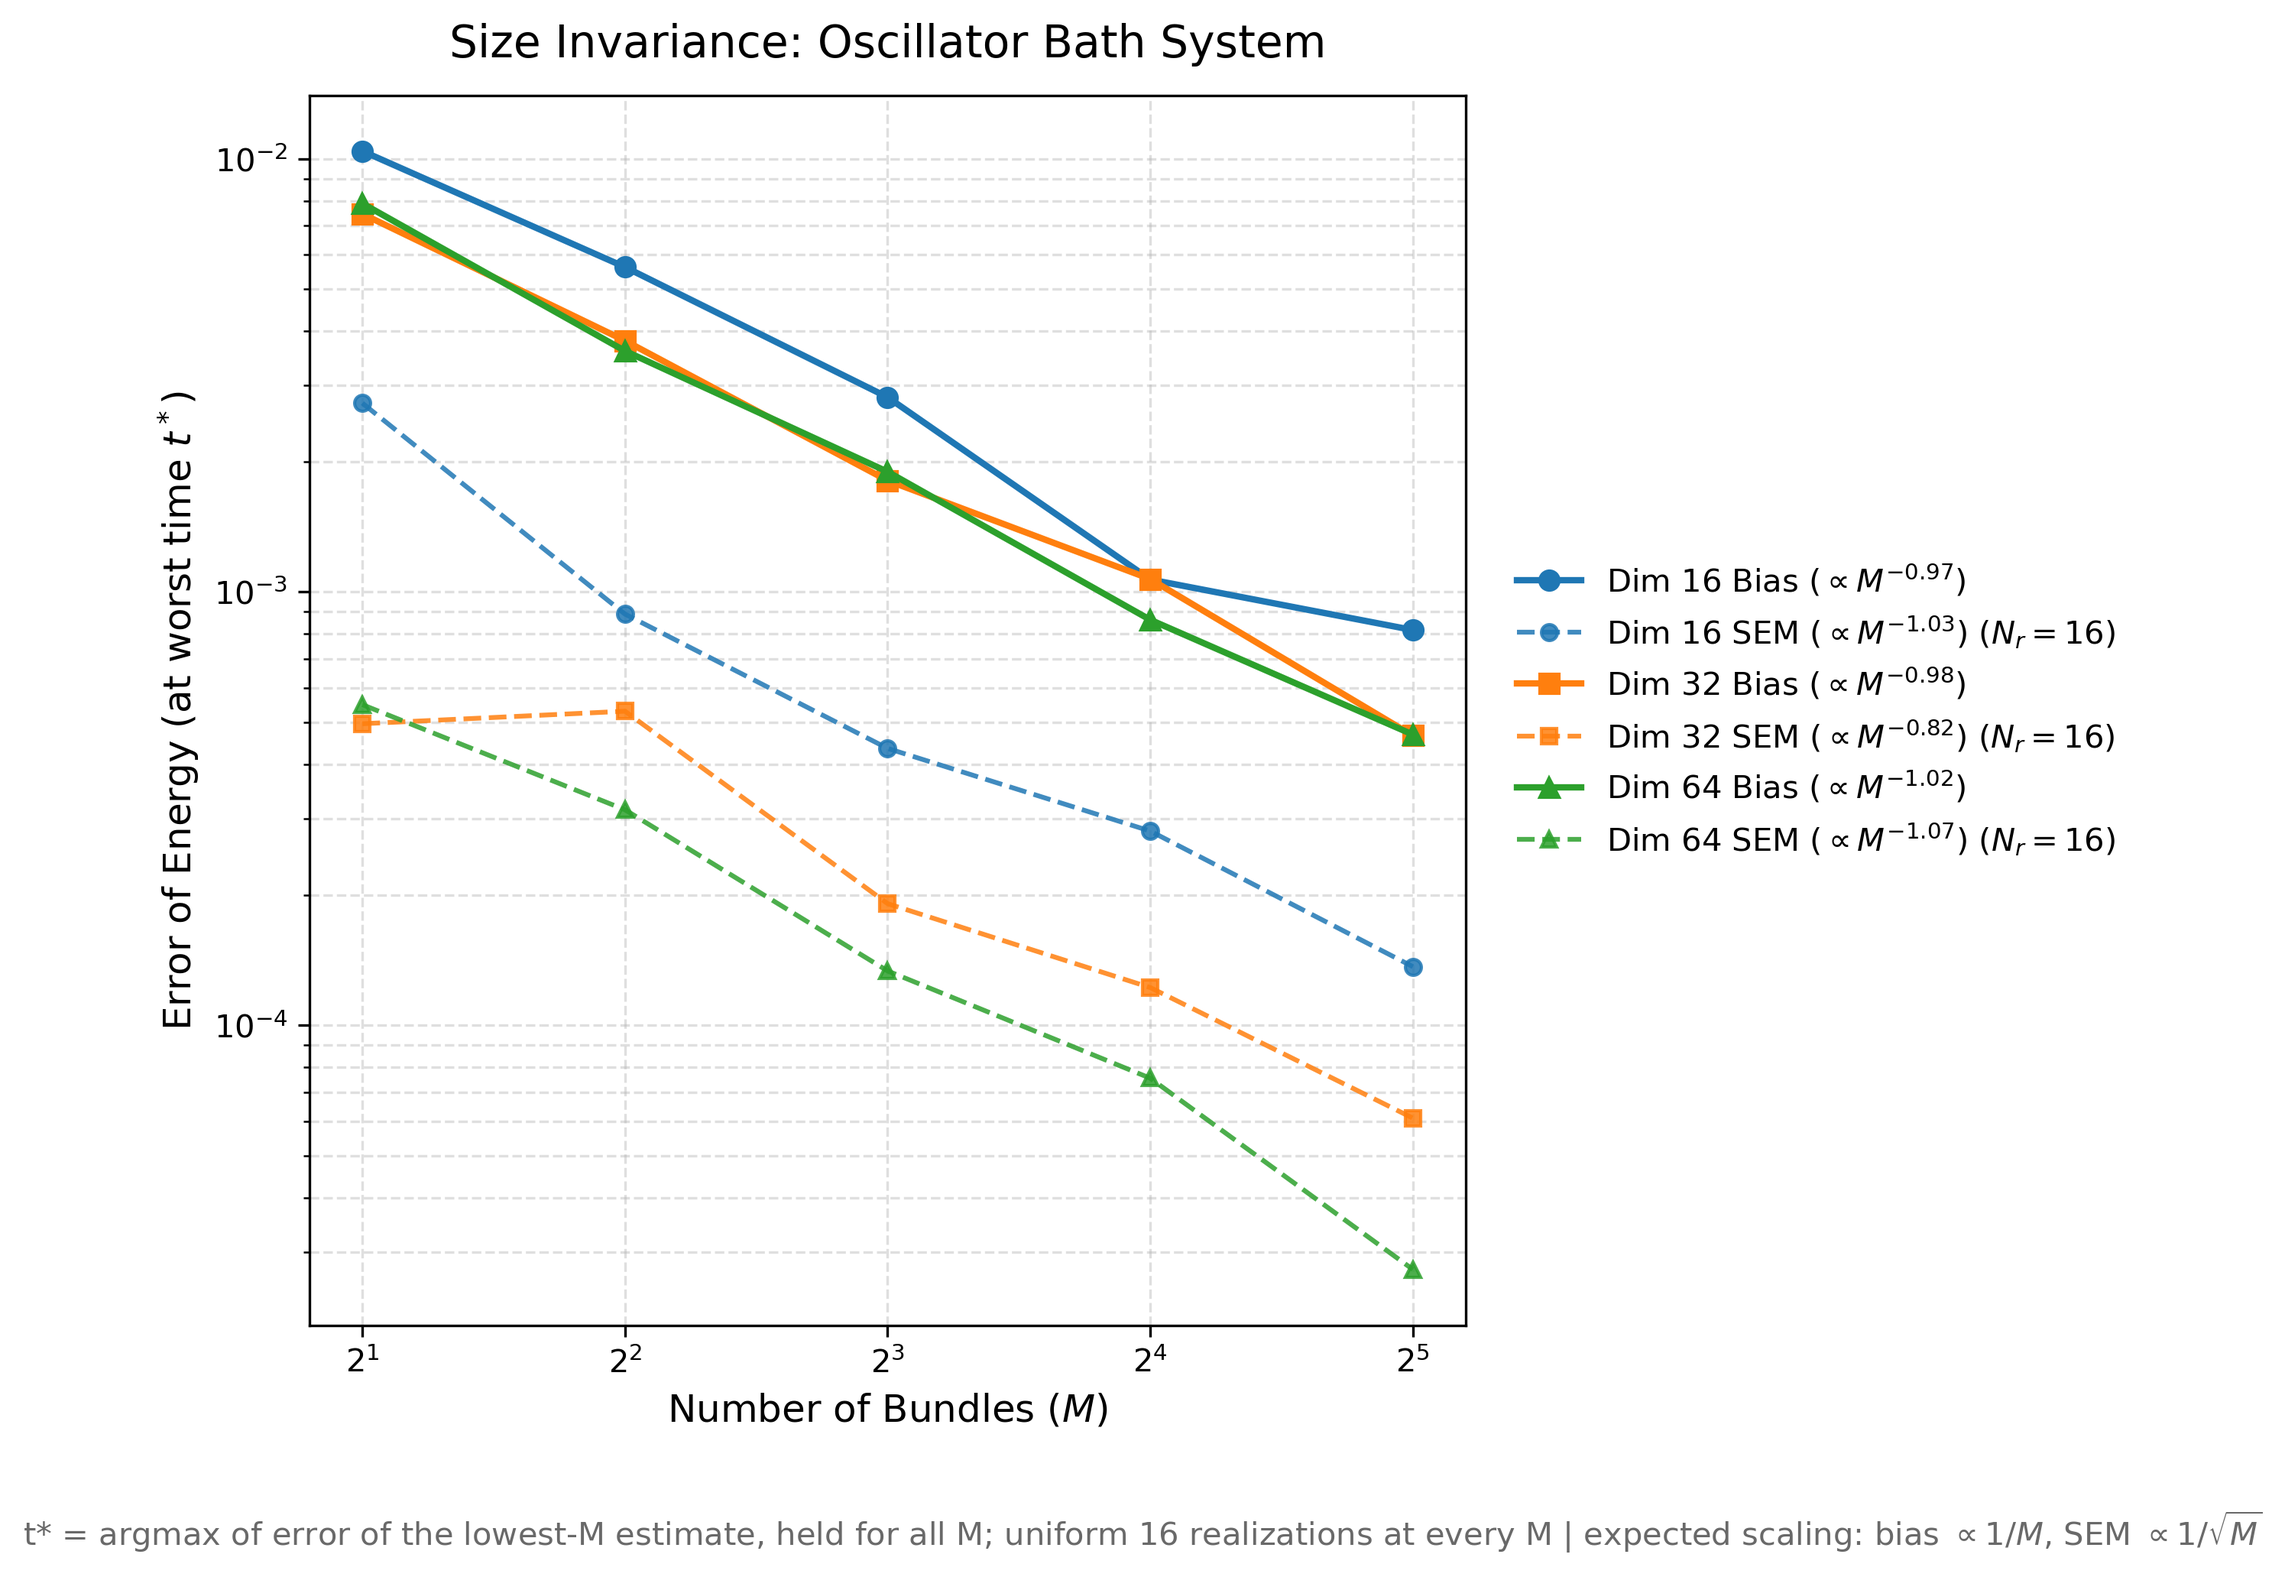
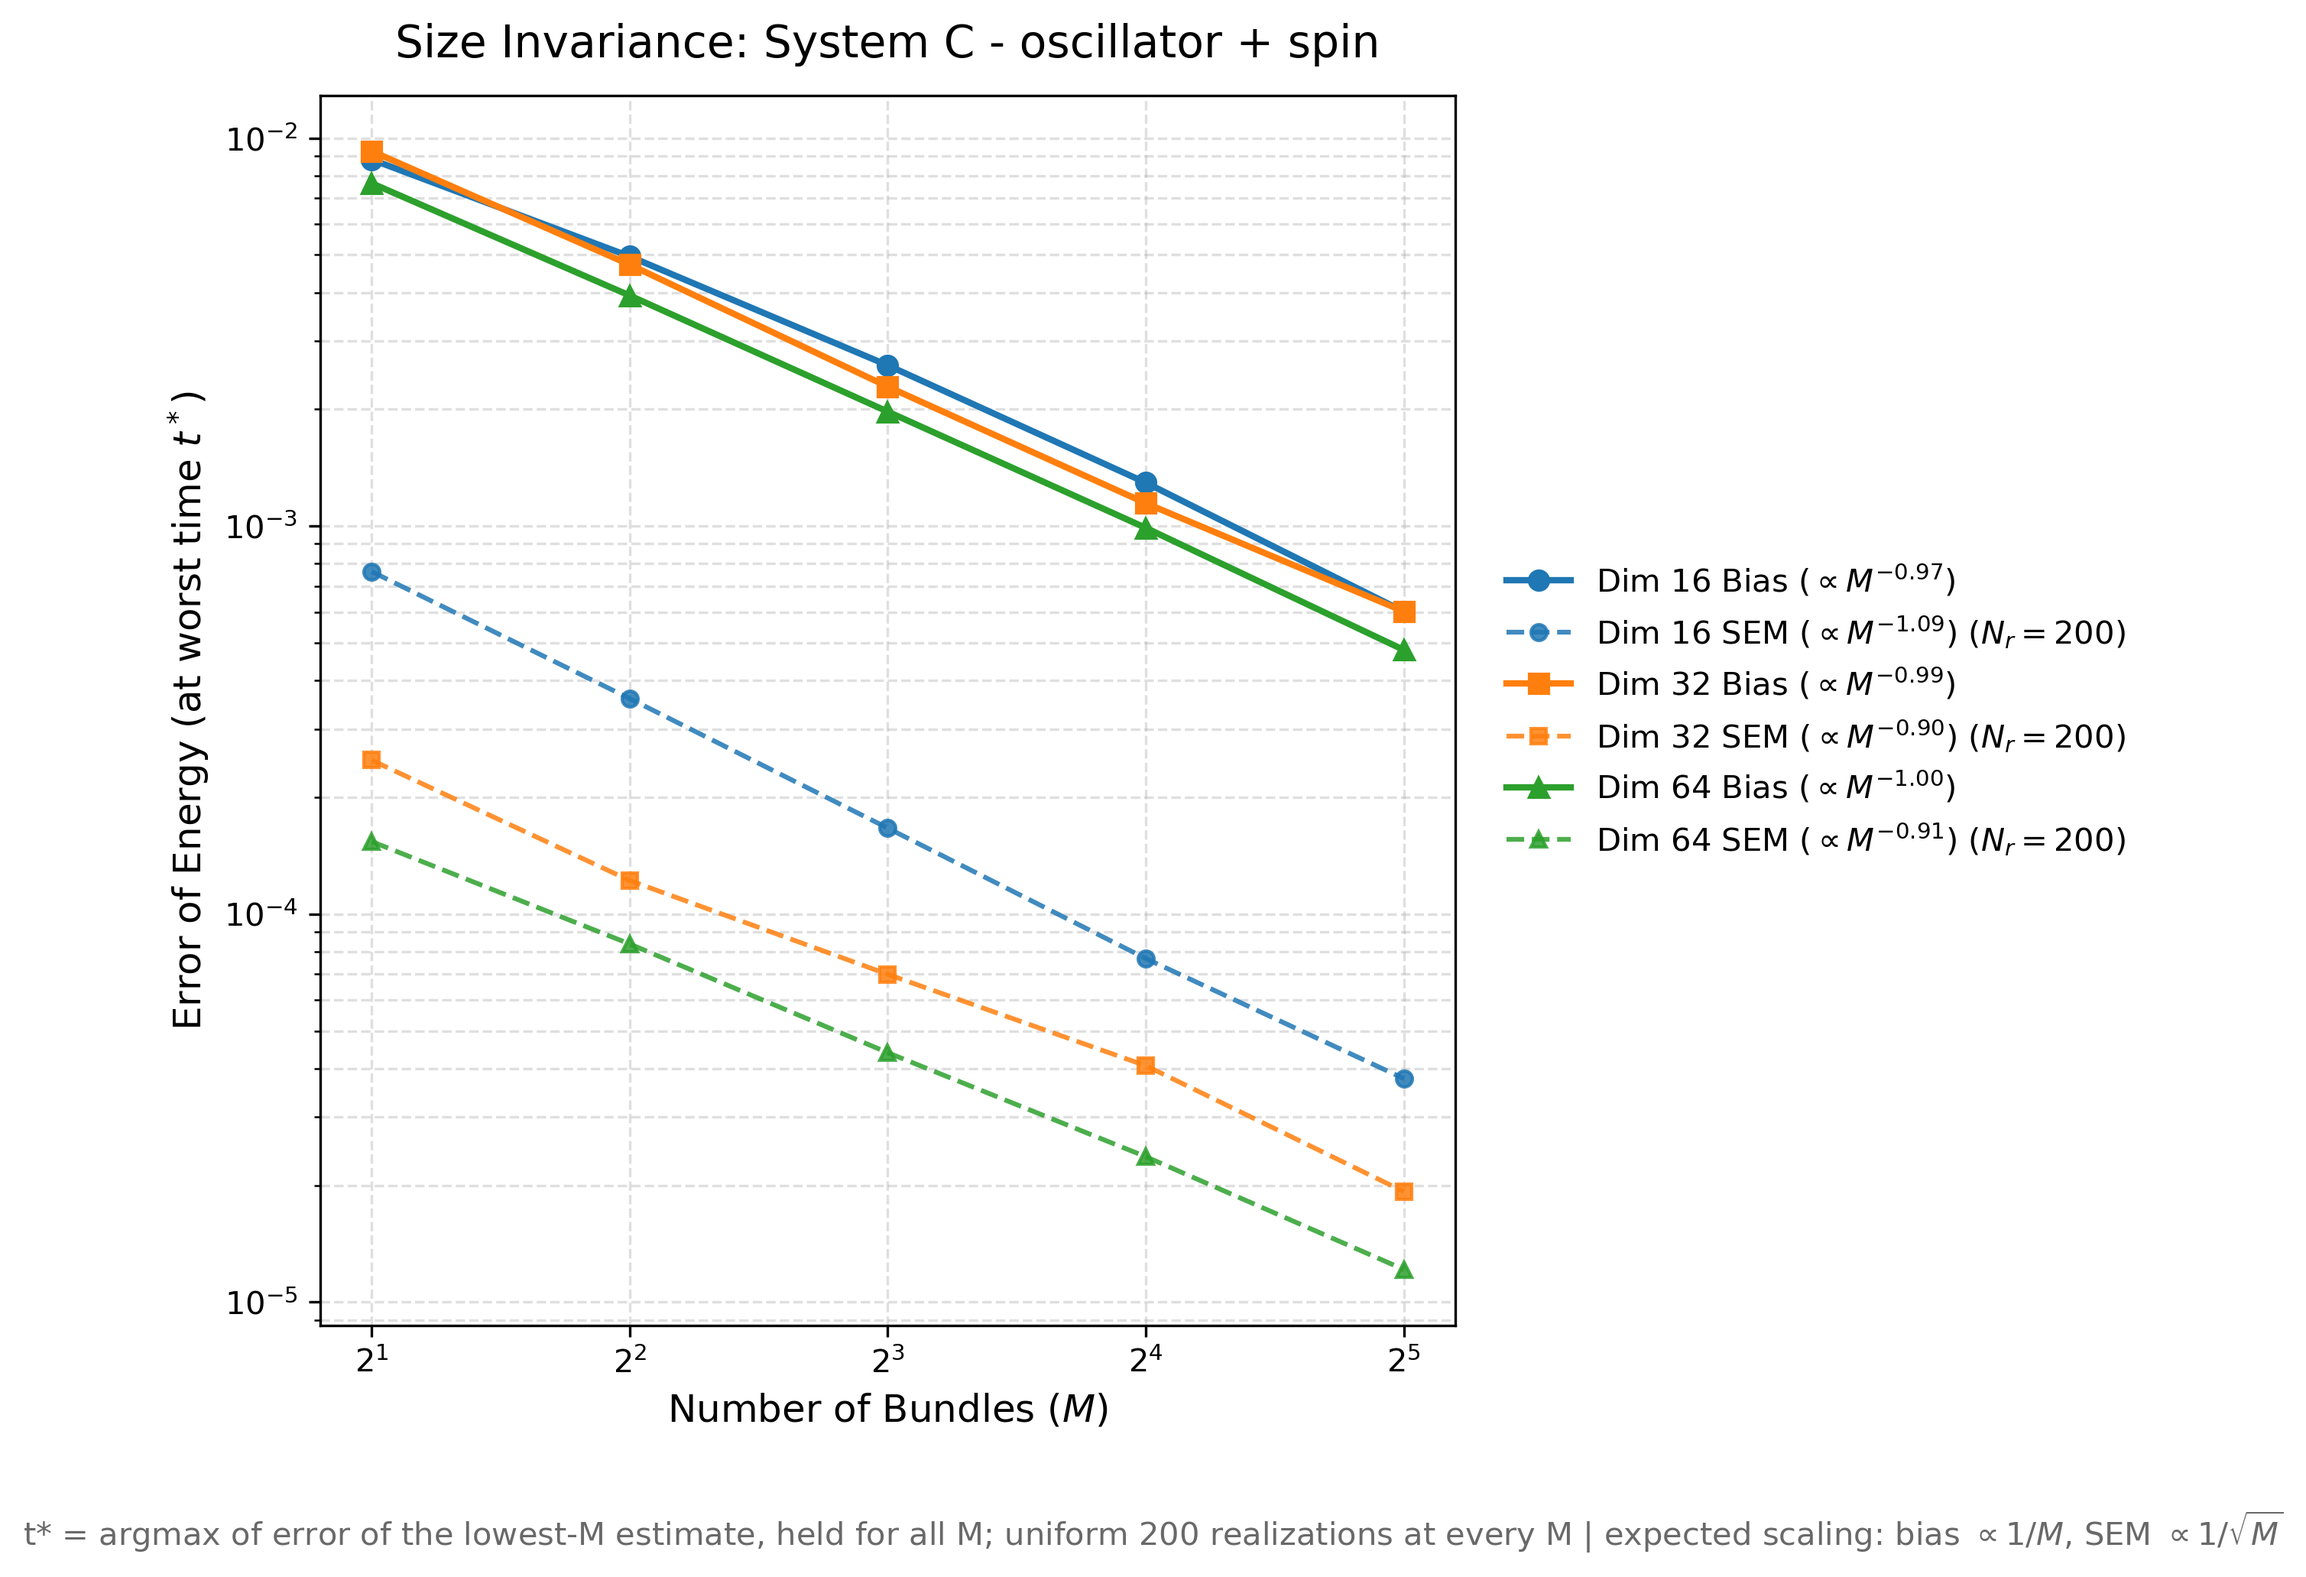
Size invariance: add System B, and stop discarding 92% of the samples
plot_R1_invariance.py hardcoded SYSTEMS to the two original systems, so the
figure never covered the mixed-field chain even though its data has been there
since the regeneration. Added, along with A/B/C titles matching the rest of the
document, and a fix for the duplicated word in "System B - mixed-field chain
System".

The larger problem was statistical. The script capped every sweep at 16
realizations "for uniformity", but every Result 1 run saves 200, and the
neighbouring error-decomposition figure already used all of them. The cap
inflated the SEM by sqrt(200/16) = 3.5x, and since an exponent is only quoted
when at least three points clear bias > 2*SEM, that pushed real curves into the
"Level/Marginal" label:

                    16 realizations        all 200
  spin chain d32    M^-0.82  (5/5)         M^-0.97  (5/5)
  mixed chain d16   M^-0.92  (5/5)         M^-1.00  (5/5)
  mixed chain d32   M^-0.92  (4/5)         M^-1.00  (5/5)
  oscillator d16    M^-0.98  (3/5)         M^-0.97  (5/5)

With the full sample every point certifies on all three systems at all three
sizes, and the fitted exponents tighten onto the theoretical -1 instead of
scattering to -0.82. The figure's whole purpose is to show the bias falls as
1/M independently of dimension, and the cap was blurring exactly that.

System B now reads as the cleanest demonstration of it: dims 16, 32 and 64 give
M^-1.00, M^-1.00 and M^-1.02, three parallel lines. The prose quotes the range
[…]

diff --git a/benchmarks/plot_R1_invariance.py b/benchmarks/plot_R1_invariance.py
@@ -9,7 +9,12 @@ from common import add_settings_footer
 # =====================================================================
 # Configuration & Toggles
 # =====================================================================
-SYSTEMS = ["spin_chain", "oscillator_bath"] 
+SYSTEMS = ["spin_chain", "mixed_chain", "oscillator_bath"]
+SYSTEM_TITLES = {
+    "spin_chain": "System A - TFIM chain",
+    "mixed_chain": "System B - mixed-field chain",
+    "oscillator_bath": "System C - oscillator + spin",
+}
 DIMS = [16, 32, 64]
 COLORS = {16: '#1f77b4', 32: '#ff7f0e', 64: '#2ca02c'}
 MARKERS = {16: 'o', 32: 's', 64: '^'}
@@ -67,7 +72,7 @@ def calculate_sem_exponent(M_array, sem_array):
 for system in SYSTEMS:
     fig, ax = plt.subplots(figsize=(9, 6.5))
     
-    sys_title = system.replace('_', ' ').title()
+    sys_title = SYSTEM_TITLES.get(system, system.replace('_', ' ').title())
     
     for dim in DIMS:
         try:
@@ -103,9 +108,14 @@ for system in SYSTEMS:
                 if samples_arr.ndim == 1:
                     samples_arr = samples_arr.reshape(1, -1)
                     
-                # Keep exactly 16 realizations max for uniformity
-                if samples_arr.shape[0] >= 16:
-                    samples_arr = samples_arr[:16, :]
+                # Use every realization the run saved. Capping at 16 threw
+                # away 92% of the data and inflated the SEM by sqrt(200/16) =
+                # 3.5x, which pushed points below the bias > 2*SEM bar and left
+                # curves labelled "Level/Marginal" that in fact resolve cleanly.
+                # With all 200 every point certifies and the fitted exponents
+                # tighten onto the theoretical -1 (e.g. spin chain dim 32 moves
+                # from -0.82 to -0.97). The neighbouring decomposition figure
+                # already used all of them, so this also makes the two agree.
                     
                 n_acc = samples_arr.shape[0]
                 realizations = n_acc
@@ -178,7 +188,7 @@ for system in SYSTEMS:
     y_label_text = 'Error of Energy (at worst time $t^*$)' if EVALUATE_AT_WORST_TIME else 'Time-Averaged Error of Energy'
     ax.set_ylabel(y_label_text, fontsize=12)
     
-    ax.set_title(f'Size Invariance: {sys_title} System', fontsize=14, pad=12)
+    ax.set_title(f'Size Invariance: {sys_title}', fontsize=14, pad=12)
 
     # Place legend outside to avoid obscuring data lines
     ax.legend(loc='center left', bbox_to_anchor=(1.02, 0.5), frameon=False, fontsize=10)

diff --git a/benchmarks/BENCHMARKS.md b/benchmarks/BENCHMARKS.md
@@ -1161,10 +1161,14 @@ system is. The bundling error is set by $M$, not by $N$ — which is exactly why
 $M$ can be held constant as the dimension grows (the premise of the Result 2
 cost scaling). The SEM curves fall as $M^{-1/2}$ as expected, and the fitted
 exponents (in the legend) are quoted only where they clear the strict noise
-floor.
+floor -- with the full 200 realizations every point does, on all three systems
+at all three sizes. The measured bias slopes span $M^{-0.91}$ to $M^{-1.02}$,
+and System B's three dimensions land at $M^{-1.00}$, $M^{-1.00}$ and $M^{-1.02}$:
+parallel lines, which is the invariance stated as a picture.
 
-![spin chain size invariance](accuracy_vs_M_invariance_spin_chain.png)
-![oscillator size invariance](accuracy_vs_M_invariance_oscillator_bath.png)
+![System A size invariance](accuracy_vs_M_invariance_spin_chain.png)
+![System B size invariance](accuracy_vs_M_invariance_mixed_chain.png)
+![System C size invariance](accuracy_vs_M_invariance_oscillator_bath.png)
 
 ### Result 2 — cost scaling versus the exact solver
 
